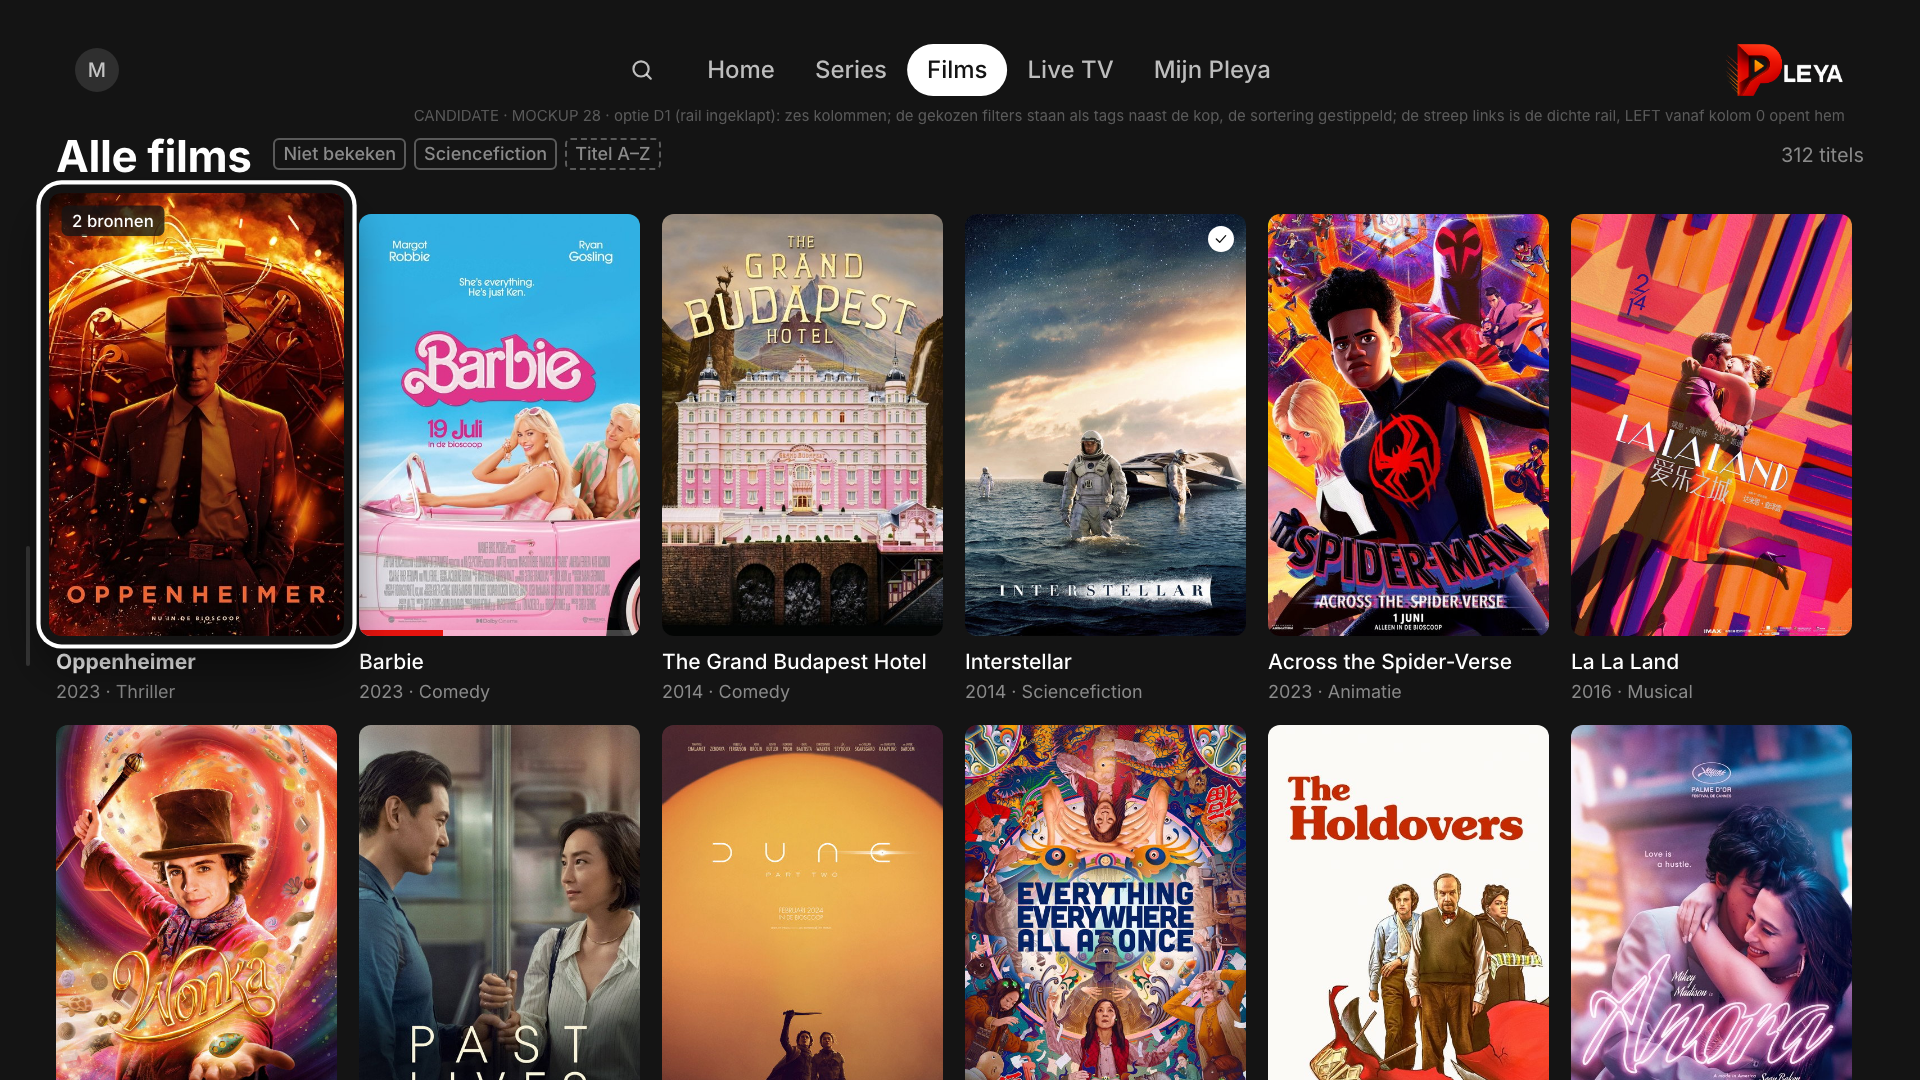
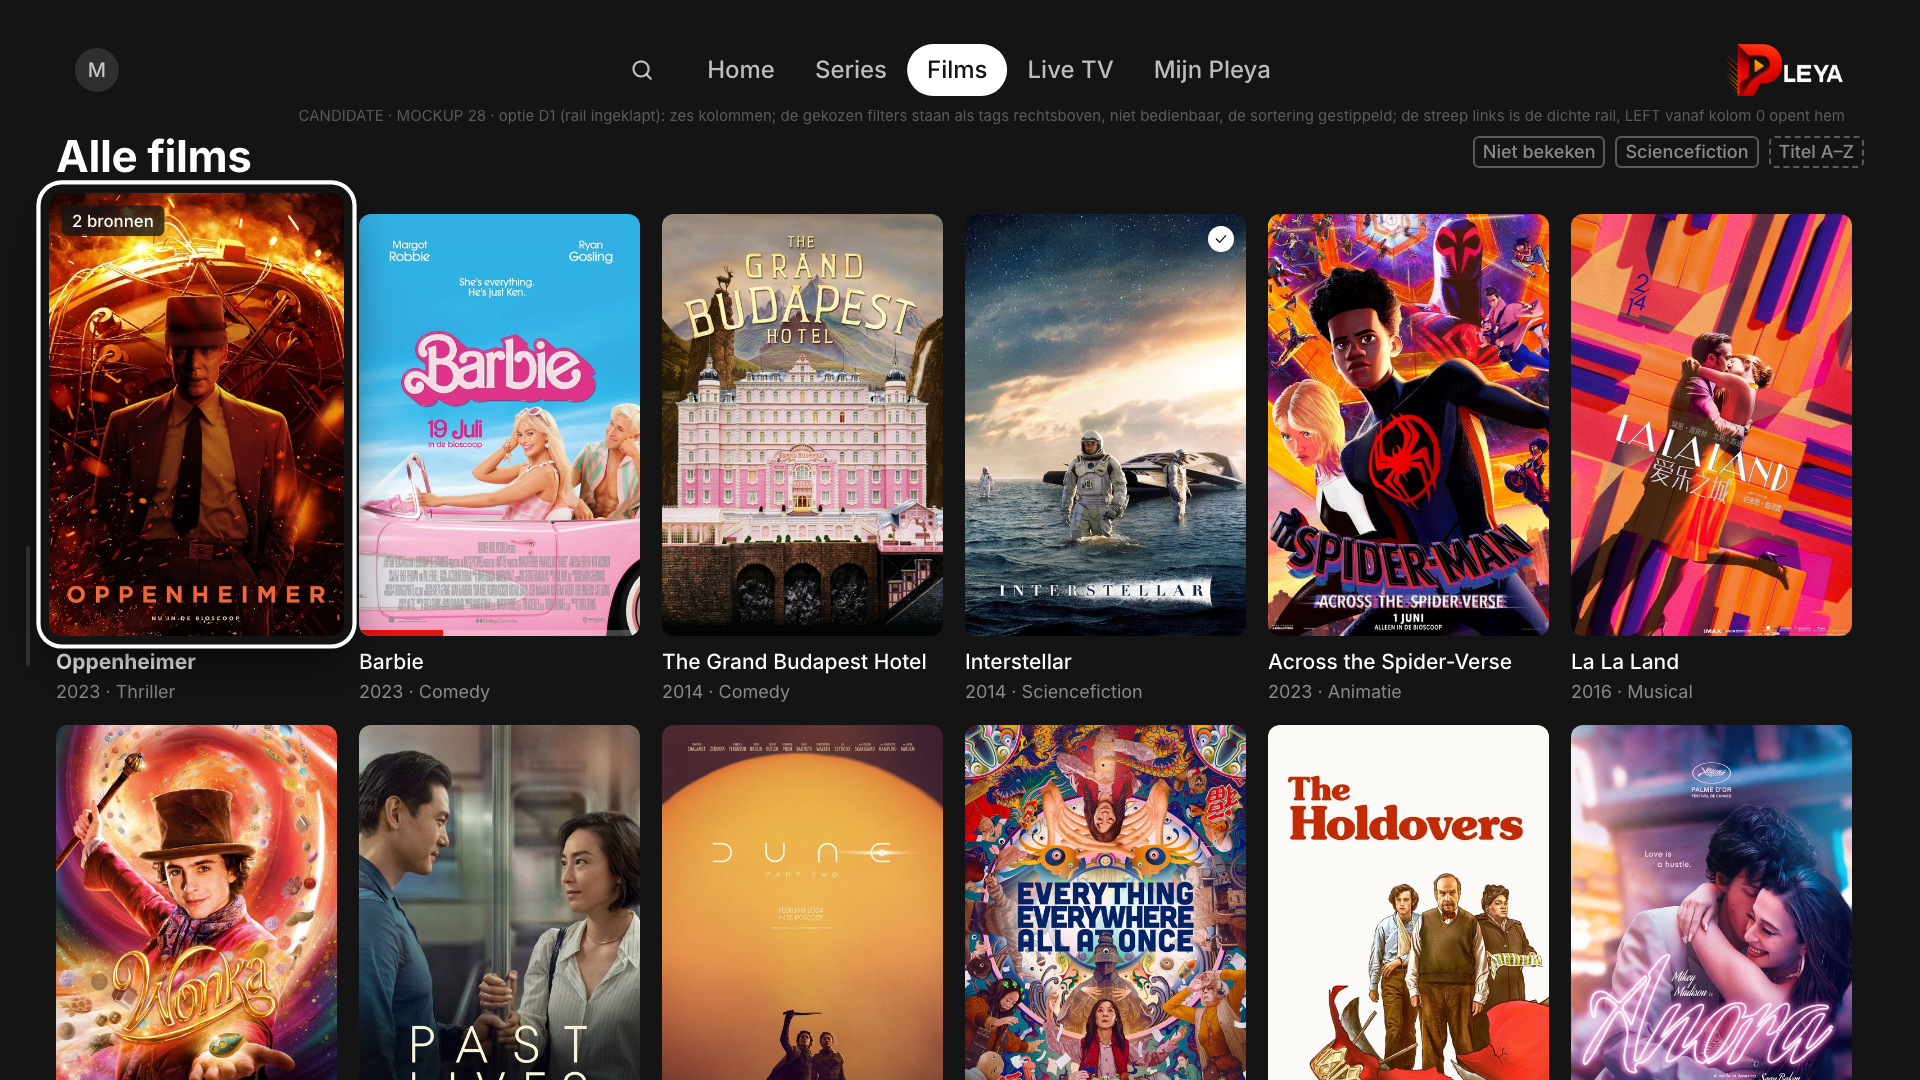
docs(tv): CAT5, de gekozen filters in de ingeklapte stand rechtsboven
Michel: de tags hoeven niet bedienbaar te zijn en rechtsboven is de ruimte
vrijgekomen die de chips innamen. D1 zet ze daar, gestippeld voor de
sortering; de rail blijft links en dicht tot LEFT vanaf kolom 0.

Changed region(s): [[0.125, 0.0917, 0.625, 0.1528], [0.75, 0.1222, 0.9688, 0.1528]]

diff --git a/docs/assets/tvos-unified/src/pages/28-catalogusfilters-d1.html b/docs/assets/tvos-unified/src/pages/28-catalogusfilters-d1.html
@@ -1,10 +1,9 @@
 <style>
 .page { padding: 0 var(--grid-inset); }
 .head { display: flex; align-items: flex-end; gap: 22px; }
-.head .sel { display: flex; gap: 8px; margin-bottom: 10px; }
+.head .sel { display: flex; gap: 10px; margin-left: auto; margin-bottom: 12px; }
 .head .sel .tag { border-color: var(--ink-4); color: var(--ink-3); }
 .head .sel .tag.muted { border-style: dashed; }
-.head .cnt { margin-left: auto; margin-bottom: 12px; font-size: 20px; color: var(--ink-3); }
 .grid6 { margin-top: 34px; }
 .edge { position: absolute; left: 0; top: 132px; bottom: 0; width: 56px; display: flex; align-items: center; justify-content: center; }
 .edge i { width: 4px; height: 120px; border-radius: 2px; background: rgba(255,255,255,.14); }
@@ -14,7 +13,6 @@
   <div class="head">
     <div class="page-title">Alle films</div>
     <div class="sel"><span class="tag">Niet bekeken</span><span class="tag">Sciencefiction</span><span class="tag muted">Titel A–Z</span></div>
-    <div class="cnt">312 titels</div>
   </div>
   <div class="grid6">
     <div class="card focus"><div class="art"><img src="{{art:oppenheimer-poster}}"><span class="src">2 bronnen</span></div><div class="t">Oppenheimer</div><div class="s">2023 · Thriller</div></div>
@@ -32,4 +30,4 @@
   </div>
 </div>
 <div class="edge"><i></i></div>
-<div class="note">CANDIDATE · MOCKUP 28 · optie D1 (rail ingeklapt): zes kolommen; de gekozen filters staan als tags naast de kop, de sortering gestippeld; de streep links is de dichte rail, LEFT vanaf kolom 0 opent hem</div>
+<div class="note">CANDIDATE · MOCKUP 28 · optie D1 (rail ingeklapt): zes kolommen; de gekozen filters staan als tags rechtsboven, niet bedienbaar, de sortering gestippeld; de streep links is de dichte rail, LEFT vanaf kolom 0 opent hem</div>

diff --git a/docs/tvos-fysieke-correctieronde.md b/docs/tvos-fysieke-correctieronde.md
@@ -2034,3 +2034,8 @@ de gekozen filters altijd zichtbaar in het raster. D1 en D2 zijn daarop
 hertekend: de rail is één paneel in de tegeltaal met per regel icoon, label en
 huidige waarde, de keuzes als tags en Wissen eronder; ingeklapt staan dezelfde tags
 naast de kop, met de sortering gestippeld zodat hij niet als filter leest.
+
+Op D1 en D2 zei Michel, letterlijk: "Graag die waarop gefilterd mag dan wel rechtsboven
+getoond worden want nu hoeven die niet meer bereikbaar te zijn en je hebt daar meer
+ruimte." De tags in de ingeklapte stand zijn daarmee naar rechtsboven verhuisd, de plek
+waar de chips stonden en die vrijkwam zodra ze niet meer bedienbaar hoefden te zijn.
